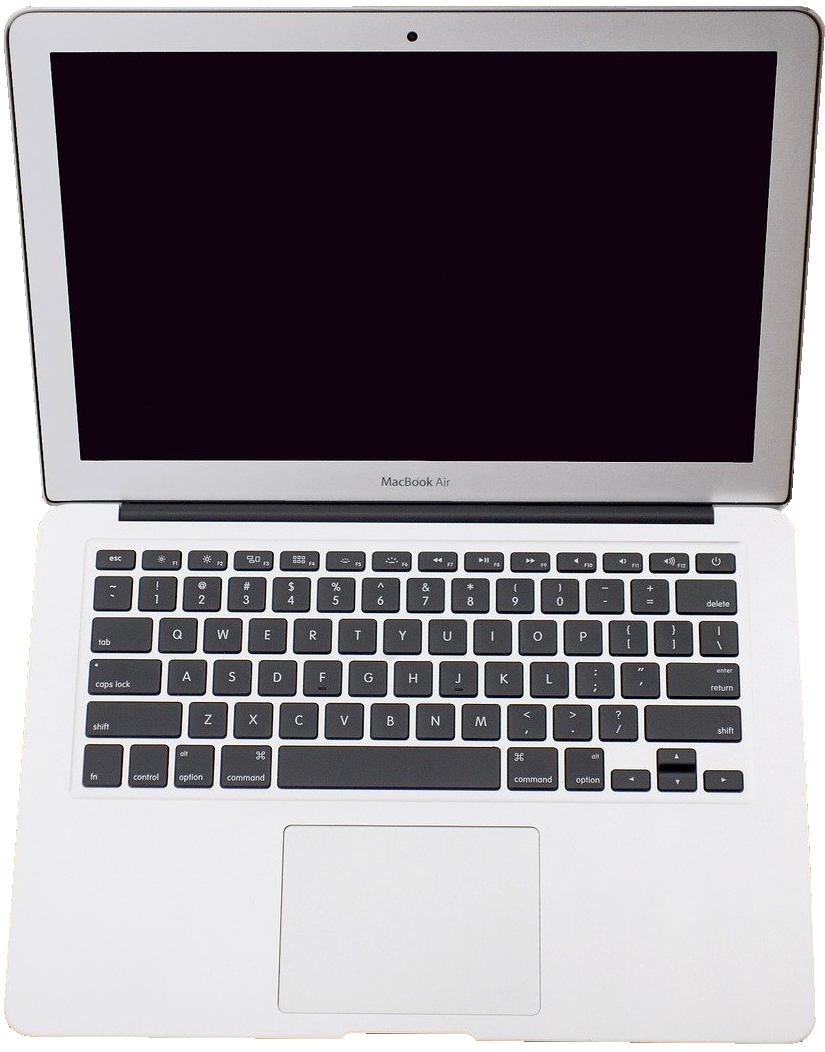
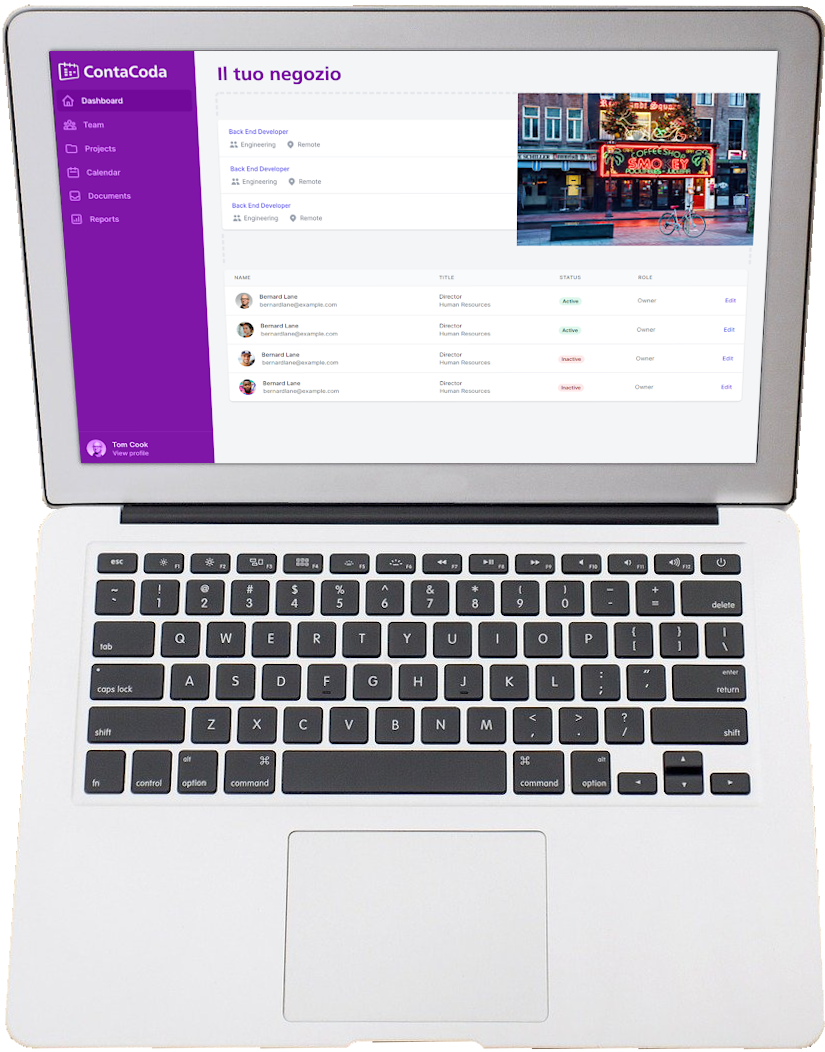
aggiunta schermate devices

diff --git a/assets/bitapp/css/style.css b/assets/bitapp/css/style.css
@@ -1,4 +1,4 @@
-@import url('https://fonts.googleapis.com/css2?family=Montserrat:wght@300;700;900&display=swap');
+@import url('https://fonts.googleapis.com/css2?family=Lato:wght@300;700&display=swap');
 
 body {
   font-style: normal;
@@ -16,35 +16,35 @@ body {
   line-height: 1.6;
 }
 .display-1 {
-  font-family: 'Montserrat', sans-serif;
+  font-family: 'Lato', sans-serif;
   font-size: 4.25rem;
 }
 .display-1 > .mbr-iconfont {
   font-size: 6.8rem;
 }
 .display-2 {
-  font-family: 'Montserrat', sans-serif;
+  font-family: 'Lato', sans-serif;
   font-size: 3rem;
 }
 .display-2 > .mbr-iconfont {
   font-size: 4.8rem;
 }
 .display-4 {
-  font-family: 'Montserrat', sans-serif;
+  font-family: 'Lato', sans-serif;
   font-size: 1rem;
 }
 .display-4 > .mbr-iconfont {
   font-size: 1.6rem;
 }
 .display-5 {
-  font-family: 'Montserrat', sans-serif;
+  font-family: 'Lato', sans-serif;
   font-size: 1.5rem;
 }
 .display-5 > .mbr-iconfont {
   font-size: 2.4rem;
 }
 .display-7 {
-  font-family: 'Montserrat', sans-serif;
+  font-family: 'Lato', sans-serif;
   font-size: 1rem;
 }
 .display-7 > .mbr-iconfont {
@@ -568,7 +568,7 @@ a:hover {
   opacity: 0 !important;
 }
 /* Others*/
-.note-check a[data-value=Montserrat] {
+.note-check a[data-value=Lato] {
   font-style: normal;
 }
 .mbr-arrow a {
@@ -606,7 +606,7 @@ a:hover {
   background-color: #f5f5f5;
   box-shadow: none;
   color: #565656;
-  font-family: 'Montserrat', sans-serif;
+  font-family: 'Lato', sans-serif;
   font-size: 1rem;
   line-height: 1.43;
   min-height: 3.5em;
@@ -3991,7 +3991,7 @@ body {
 }
 .cid-qvbYVXq1TN .google-map [data-state-details] {
   color: #6b6763;
-  font-family: Montserrat;
+  font-family: Lato;
   height: 1.5em;
   margin-top: -0.75em;
   padding-left: 1.25rem;
@@ -5510,7 +5510,7 @@ body {
 }
 .cid-qvbYVXq1TN .google-map [data-state-details] {
   color: #6b6763;
-  font-family: Montserrat;
+  font-family: Lato;
   height: 1.5em;
   margin-top: -0.75em;
   padding-left: 1.25rem;
@@ -6855,7 +6855,7 @@ body {
 }
 .cid-qvbYVXq1TN .google-map [data-state-details] {
   color: #6b6763;
-  font-family: Montserrat;
+  font-family: Lato;
   height: 1.5em;
   margin-top: -0.75em;
   padding-left: 1.25rem;
@@ -7599,7 +7599,7 @@ body {
 }
 .cid-qv5AKsQ6xL .google-map [data-state-details] {
   color: #6b6763;
-  font-family: Montserrat;
+  font-family: Lato;
   height: 1.5em;
   margin-top: -0.75em;
   padding-left: 1.25rem;
@@ -17792,7 +17792,7 @@ body {
 }
 .cid-qv5Aq4h3k3 .google-map [data-state-details] {
   color: #6b6763;
-  font-family: Montserrat;
+  font-family: Lato;
   height: 1.5em;
   margin-top: -0.75em;
   padding-left: 1.25rem;
@@ -21331,7 +21331,7 @@ body {
 }
 .cid-qv5AtTlAOw .google-map [data-state-details] {
   color: #6b6763;
-  font-family: Montserrat;
+  font-family: Lato;
   height: 1.5em;
   margin-top: -0.75em;
   padding-left: 1.25rem;
@@ -21362,7 +21362,7 @@ body {
 }
 .cid-qv5Au3EJgH .google-map [data-state-details] {
   color: #6b6763;
-  font-family: Montserrat;
+  font-family: Lato;
   height: 1.5em;
   margin-top: -0.75em;
   padding-left: 1.25rem;
@@ -21443,7 +21443,7 @@ body {
 }
 .cid-qvhnNip1K7 .google-map [data-state-details] {
   color: #6b6763;
-  font-family: Montserrat;
+  font-family: Lato;
   height: 1.5em;
   margin-top: -0.75em;
   padding-left: 1.25rem;
@@ -21540,7 +21540,7 @@ body {
 }
 .cid-qvhnNOWQGu .google-map [data-state-details] {
   color: #6b6763;
-  font-family: Montserrat;
+  font-family: Lato;
   height: 1.5em;
   margin-top: -0.75em;
   padding-left: 1.25rem;
@@ -26448,7 +26448,7 @@ body {
 }
 .cid-qv5AtTlAOw .google-map [data-state-details] {
   color: #6b6763;
-  font-family: Montserrat;
+  font-family: Lato;
   height: 1.5em;
   margin-top: -0.75em;
   padding-left: 1.25rem;
@@ -26529,7 +26529,7 @@ body {
 }
 .cid-qv7rl9AWVJ .google-map [data-state-details] {
   color: #6b6763;
-  font-family: Montserrat;
+  font-family: Lato;
   height: 1.5em;
   margin-top: -0.75em;
   padding-left: 1.25rem;
@@ -26573,7 +26573,7 @@ body {
 }
 .cid-qv5Au3EJgH .google-map [data-state-details] {
   color: #6b6763;
-  font-family: Montserrat;
+  font-family: Lato;
   height: 1.5em;
   margin-top: -0.75em;
   padding-left: 1.25rem;
@@ -26657,7 +26657,7 @@ body {
 }
 .cid-qv7rmTfhmn .google-map [data-state-details] {
   color: #6b6763;
-  font-family: Montserrat;
+  font-family: Lato;
   height: 1.5em;
   margin-top: -0.75em;
   padding-left: 1.25rem;
@@ -27437,7 +27437,7 @@ body {
 }
 .cid-qv5Aq4h3k3 .google-map [data-state-details] {
   color: #6b6763;
-  font-family: Montserrat;
+  font-family: Lato;
   height: 1.5em;
   margin-top: -0.75em;
   padding-left: 1.25rem;

diff --git a/contacoda.html b/contacoda.html
@@ -189,7 +189,7 @@
                             <div class="carousel-caption justify-content-center">
                               <div class="col-10 align-center">
                                 <h2 class="mbr-fonts-style display-5 mb-4">Gestione flusso dei clienti attraverso il cellulare</h2>
-                                <span class="mbr-iconfont mbri-touch" style="font-size: 120px; color: #fffs;"></span>
+                                <span class="mbr-iconfont mbri-touch" style="font-size: 120px; color: #fff;"></span>
                               </div>
                             </div>
                           </div>
@@ -317,7 +317,7 @@
               </div>
             </div>
             <div class="mbr-figure" style="width: 50%;">
-              <img src="assets/img/smartphone-mappa.png" alt="schermata con mappa e marker" style="transform: scale(0.6); margin-top: -120px;" media-simple="true">
+              <img src="assets/img/smartphone-mappa.png" alt="schermata con mappa e marker" style="transform: scale(0.8); margin-top: -120px;" media-simple="true">
             </div>				
           </div>
         </div> 
